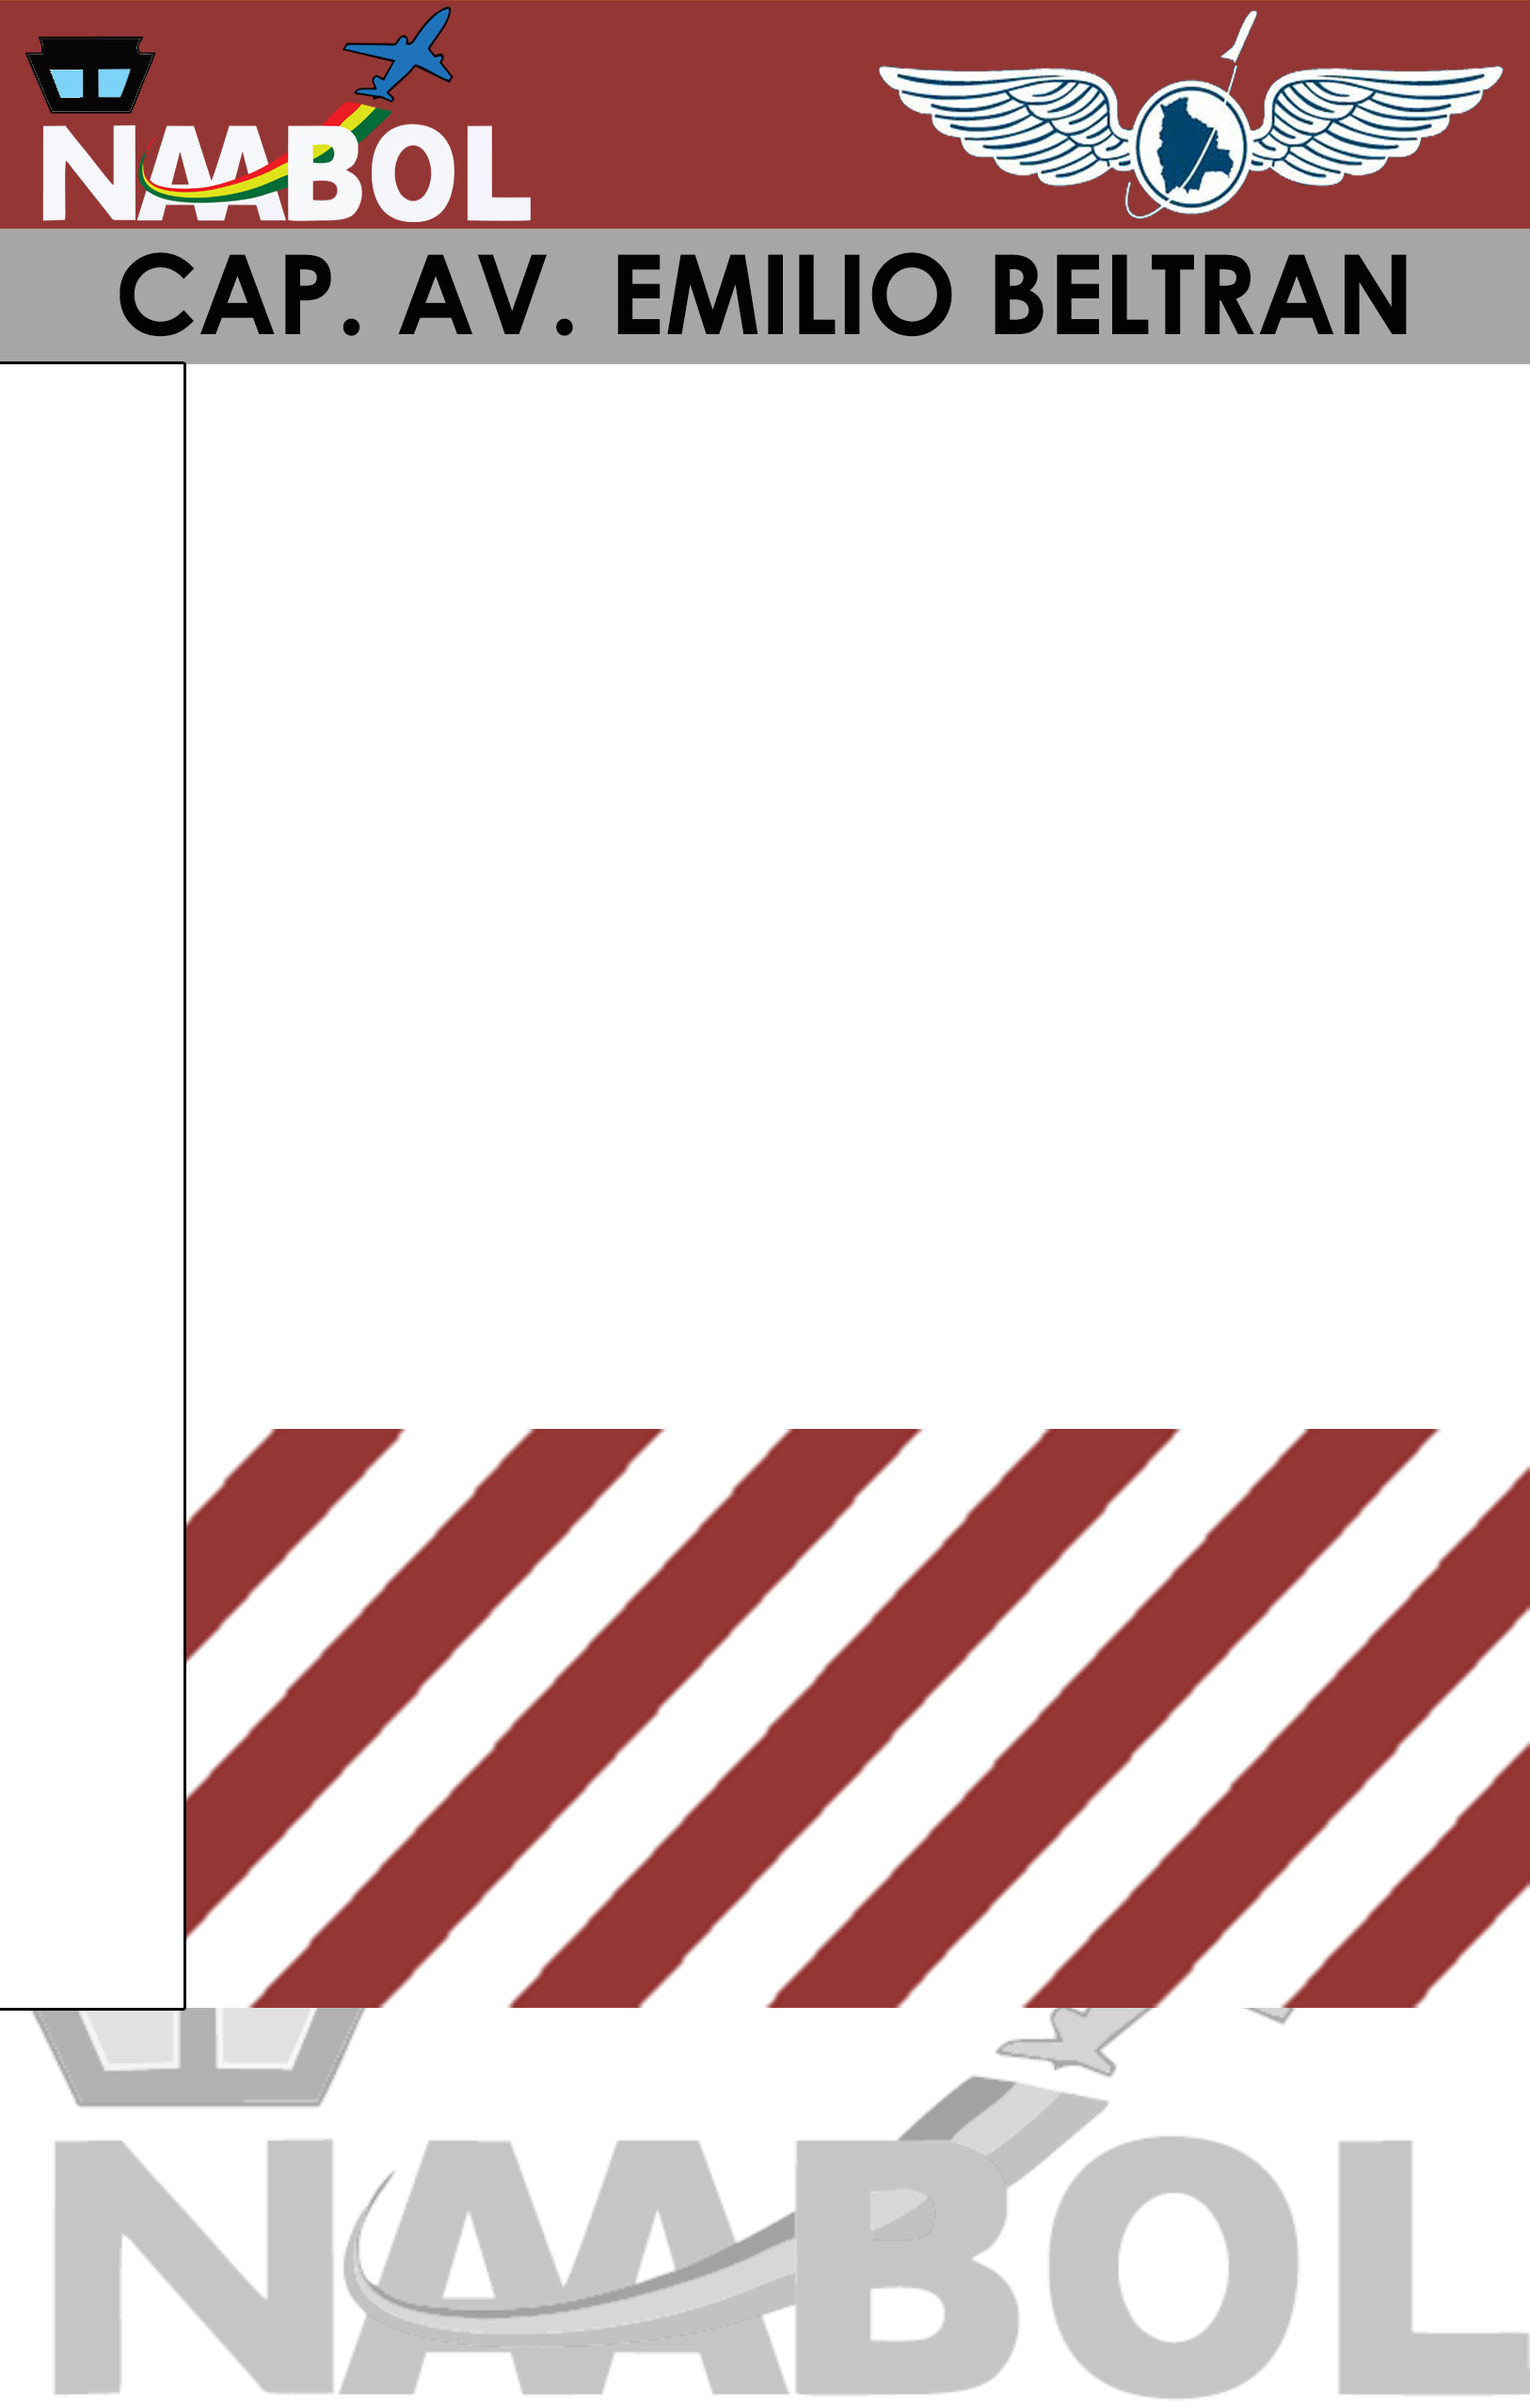
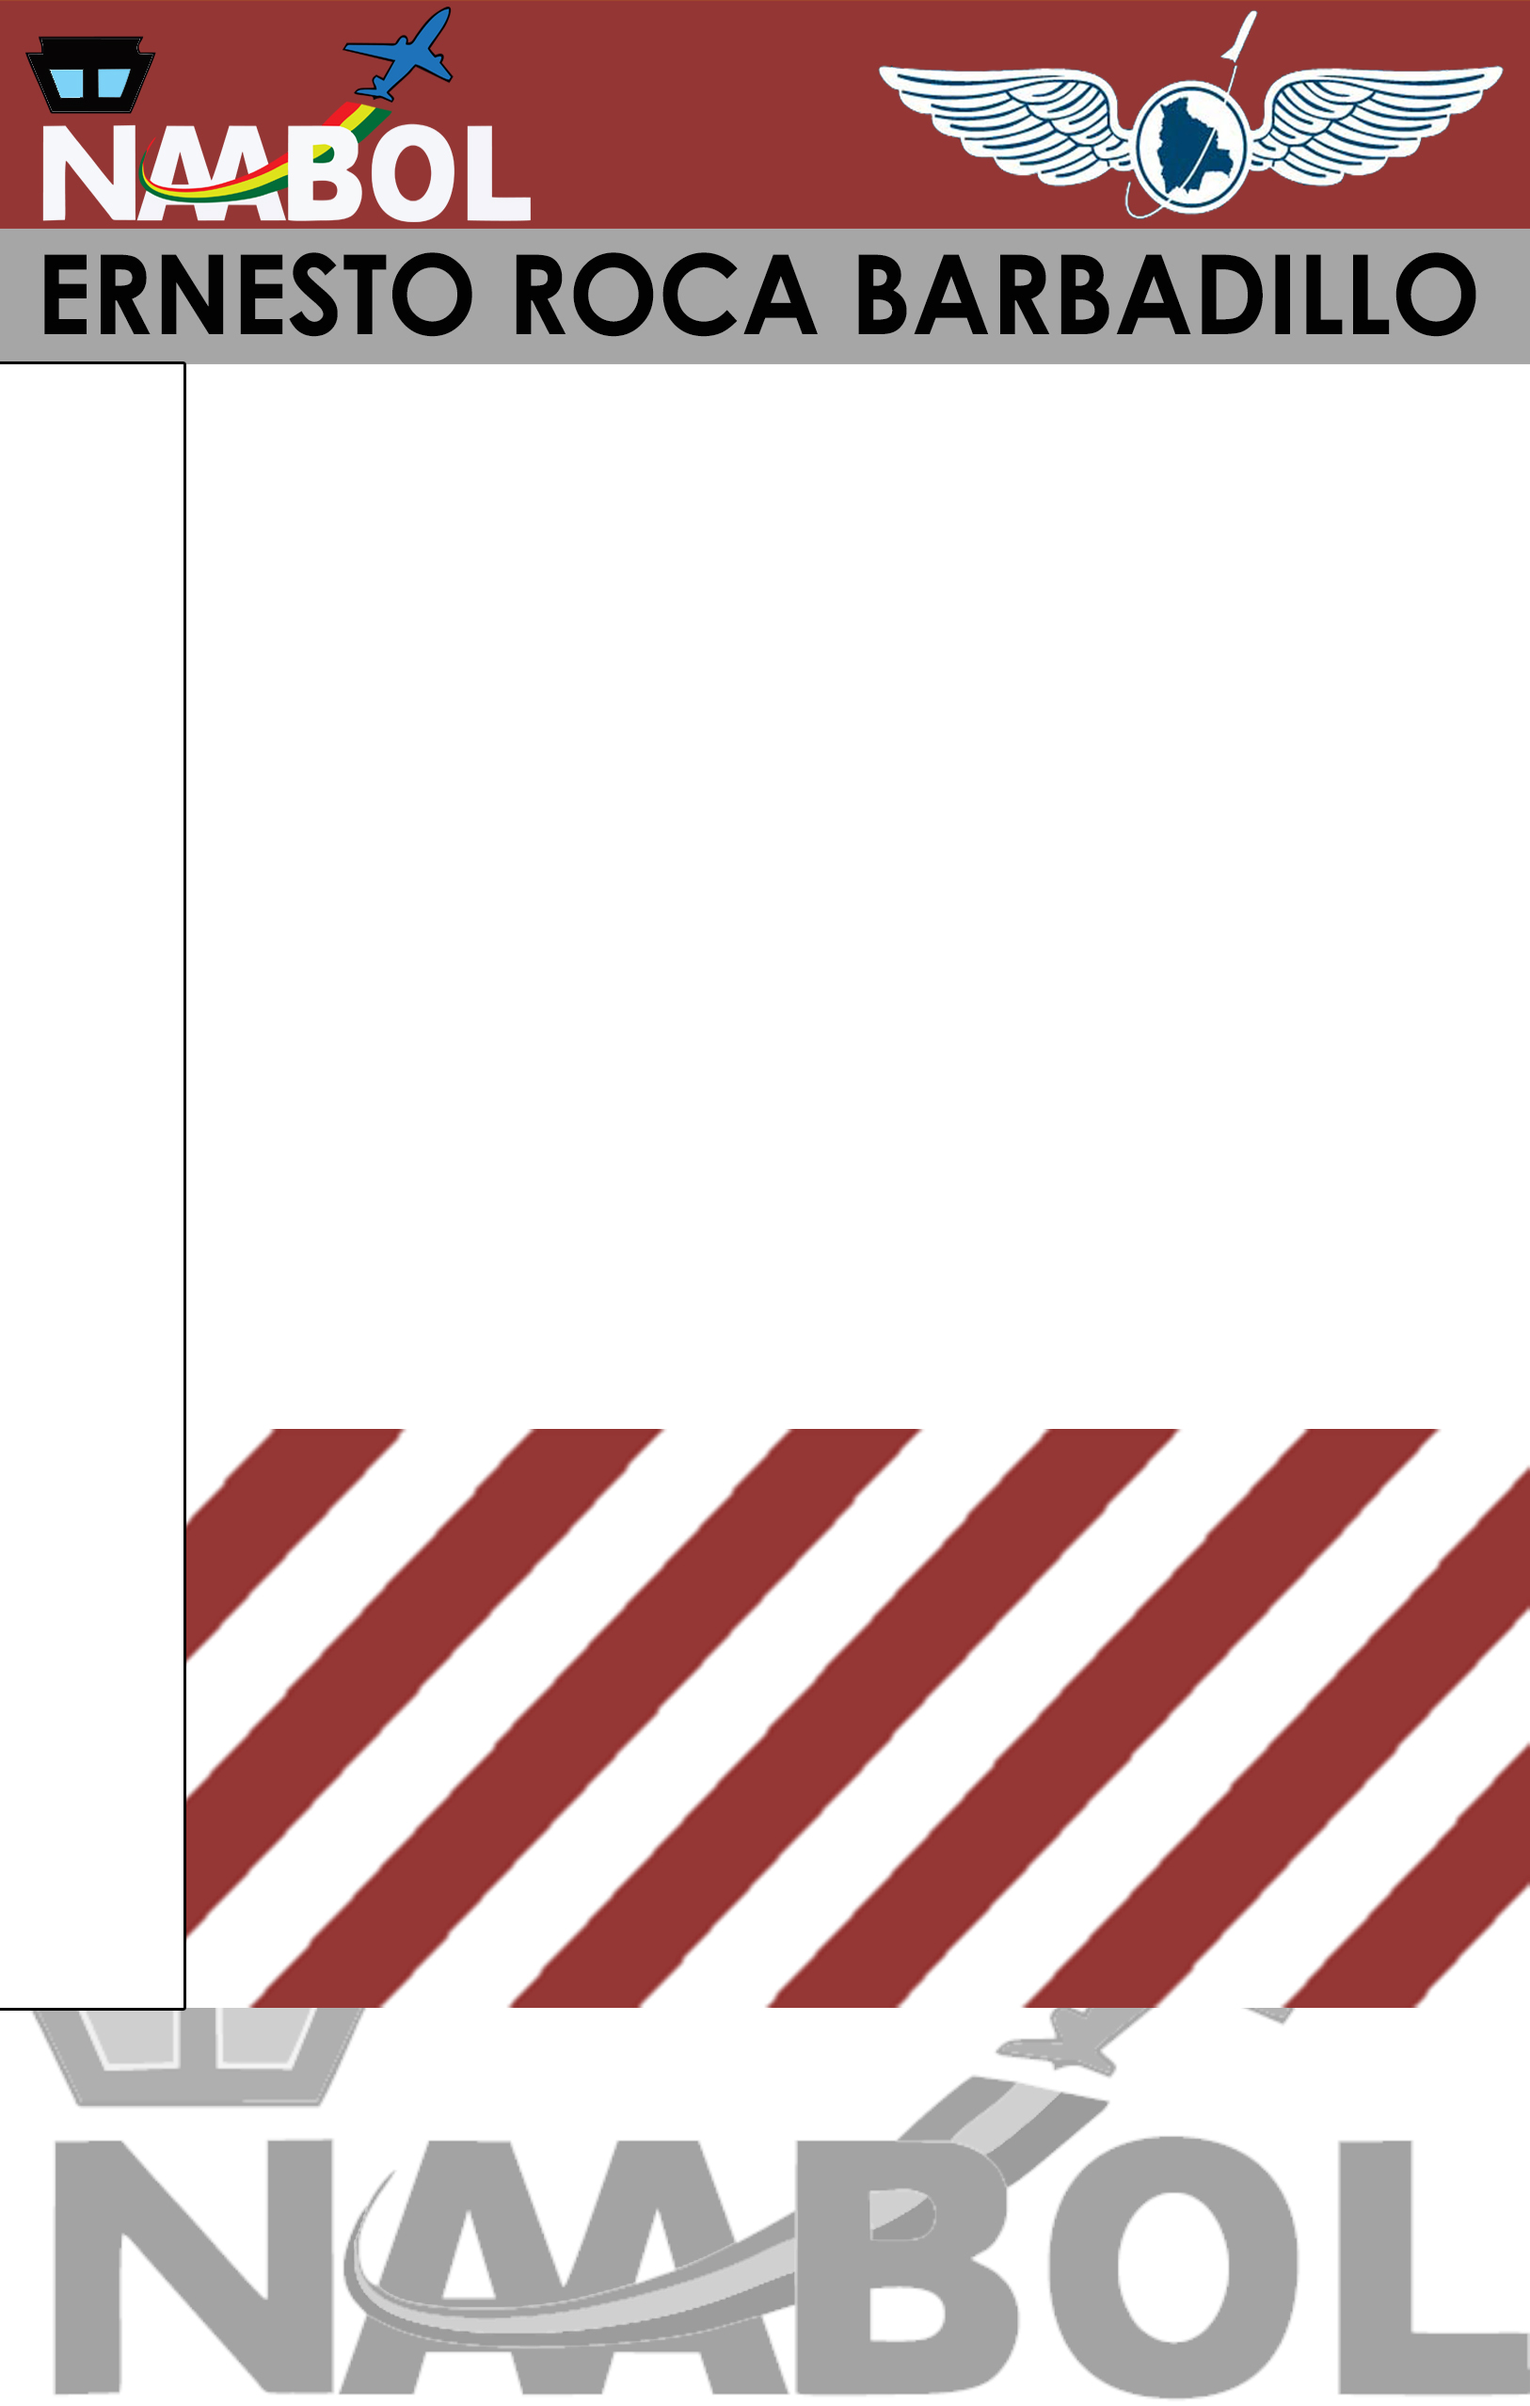
CAMBIO DE IMAGENES

Changed region(s): [[0.0308, 0.8345, 1.0, 1.0], [0.0308, 0.0927, 0.984, 0.1545]]

diff --git a/app/Http/Controllers/credencialesController.php b/app/Http/Controllers/credencialesController.php
@@ -14,8 +14,6 @@ use PDF;
 use Illuminate\Support\Facades\App;
 use Illuminate\Support\Facades\Auth;
 use Illuminate\Support\Facades\Validator;
-use PhpParser\Node\Expr\Isset_;
-use PhpParser\Node\Stmt\Return_;
 
 class credencialesController extends Controller
 {
